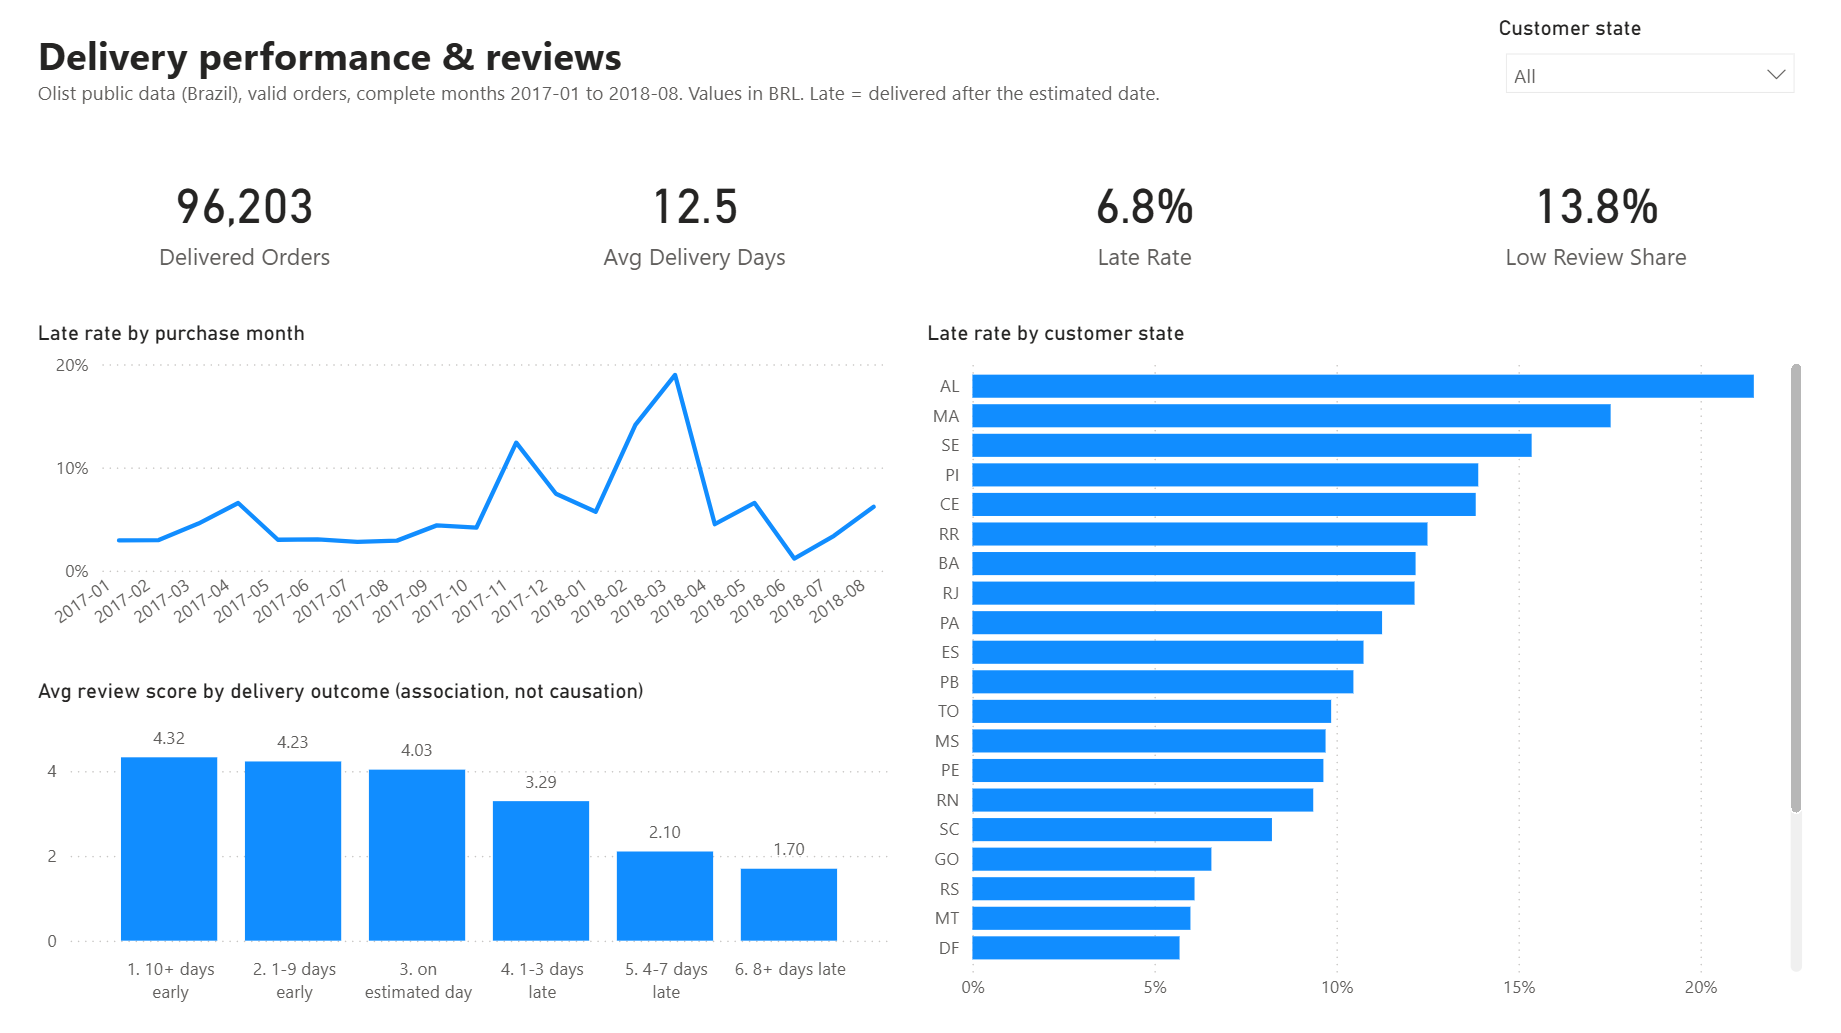
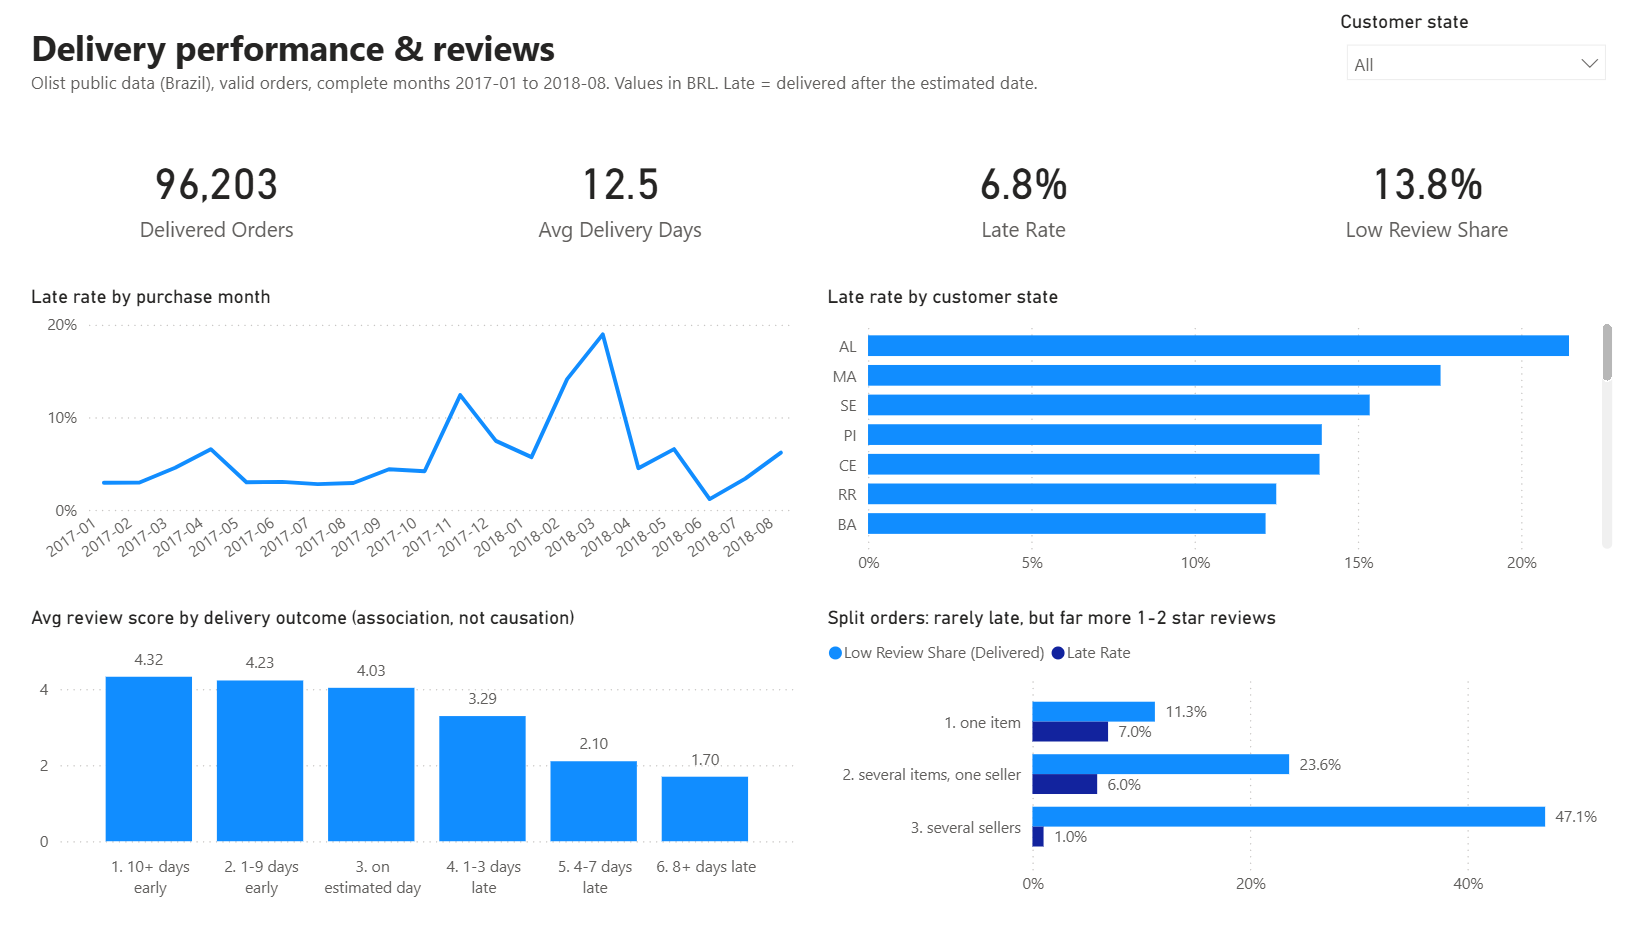
Add split-order chart to Power BI (order_type in mart, clustered bar of low-review share vs late rate)

diff --git a/src/build_powerbi_project.py b/src/build_powerbi_project.py
@@ -53,6 +53,7 @@ TABLES = {
         ("review_score", "int", "0", False),
         ("is_late", "bool", None, False),
         ("delivery_bucket", "text", None, False),
+        ("order_type", "text", None, False),
         ("is_return_order", "bool", None, False),
     ]),
     "fct_order_items": ("each [is_complete_month]", [
@@ -141,6 +142,11 @@ MEASURES = {
         "    CALCULATE(COUNTROWS(fct_orders), fct_orders[is_valid] = TRUE(), fct_orders[review_score] IN {1, 2}),\n"
         "    CALCULATE(COUNT(fct_orders[review_score]), fct_orders[is_valid] = TRUE())\n)",
         "0.0%", "Share of 1-2 star reviews among reviewed valid orders"),
+    "Low Review Share (Delivered)": (
+        "DIVIDE(\n"
+        "    CALCULATE(COUNTROWS(fct_orders), fct_orders[is_delivered] = TRUE(), fct_orders[review_score] IN {1, 2}),\n"
+        "    CALCULATE(COUNT(fct_orders[review_score]), fct_orders[is_delivered] = TRUE())\n)",
+        "0.0%", "Share of 1-2 star reviews among reviewed delivered orders"),
     "Customers": (
         "CALCULATE(DISTINCTCOUNT(fct_orders[customer_unique_id]), fct_orders[is_valid] = TRUE())",
         "#,0", "Distinct people (customer_unique_id) with a valid order"),
@@ -310,7 +316,7 @@ def projection(field, display=None):
     return proj
 
 
-CHARTS = {"lineChart", "barChart", "columnChart"}
+CHARTS = {"lineChart", "barChart", "columnChart", "clusteredBarChart"}
 
 # Card number formatting: (display units, decimals). Unlisted cards use the measure's format string.
 CARD_FORMAT = {
@@ -420,9 +426,15 @@ def build_pages():
                  roles={"Category": [bucket], "Y": [measure("Avg Review Score (Delivered)")]},
                  sort=(bucket, "Ascending"), data_labels=True,
                  title="Avg review score by delivery outcome (association, not causation)")
-    delivery.add("barChart", 640, TOP, 616, BOTTOM - TOP,
+    delivery.add("barChart", 640, TOP, 616, half,
                  roles={"Category": [column("fct_orders", "customer_state")], "Y": [measure("Late Rate")]},
                  sort=(measure("Late Rate"), "Descending"), title="Late rate by customer state")
+    order_type = column("fct_orders", "order_type")
+    delivery.add("clusteredBarChart", 640, TOP + half + 16, 616, half,  # side by side, not stacked
+                 roles={"Category": [order_type],
+                        "Y": [measure("Low Review Share (Delivered)"), measure("Late Rate")]},
+                 sort=(order_type, "Ascending"), data_labels=True,
+                 title="Split orders: rarely late, but far more 1-2 star reviews")
 
     customers = Page("customers", "Customers")
     customers.title("Customers & repeat purchase",

diff --git a/docs/powerbi.md b/docs/powerbi.md
@@ -68,7 +68,7 @@ so each category's value is divided by the total for the current filters (month,
 | Page | Visuals |
 |---|---|
 | Overview | Cards: valid orders, product value, AOV, late rate, avg review · line: product value by month · bar: product value by category · state slicer |
-| Delivery & Reviews | Cards: delivered orders, avg delivery days, late rate, low-review share · line: late rate by month · column: avg review by delivery bucket · bar: late rate by state · state slicer |
+| Delivery & Reviews | Cards: delivered orders, avg delivery days, late rate, low-review share · line: late rate by month · column: avg review by delivery bucket · bar: late rate by state · clustered bar: low-review share vs late rate by order type (split orders) · state slicer |
 | Customers | Cards: customers, returning-order share, repeat-customer share · line: returning-order share by month · bar: orders by payment type · table: cohort repeat rates |
 
 ## Reconciliation with SQL
@@ -89,3 +89,14 @@ With no slicer selected, every card must equal the SQL result in
 | Customers | 94,707 |
 | Returning Order Share | 2.4% |
 | Repeat Customer Share | 2.2% |
+
+Split-order chart (Delivery & Reviews page), checked against `sql/metrics/13_split_order_complaints.sql`:
+
+| Order type | Low Review Share (Delivered) | Late Rate |
+|---|---|---|
+| 1. one item | 11.3% | 7.0% |
+| 2. several items, one seller | 23.6% | 6.0% |
+| 3. several sellers | 47.1% | 1.0% |
+
+The low-review shares equal the SQL result. The late rates differ by about 0.2 points from SQL 13 (6.8%, 5.8%), because
+the `Late Rate` measure covers all delivered orders, while SQL 13 covers only delivered orders that have a review.
